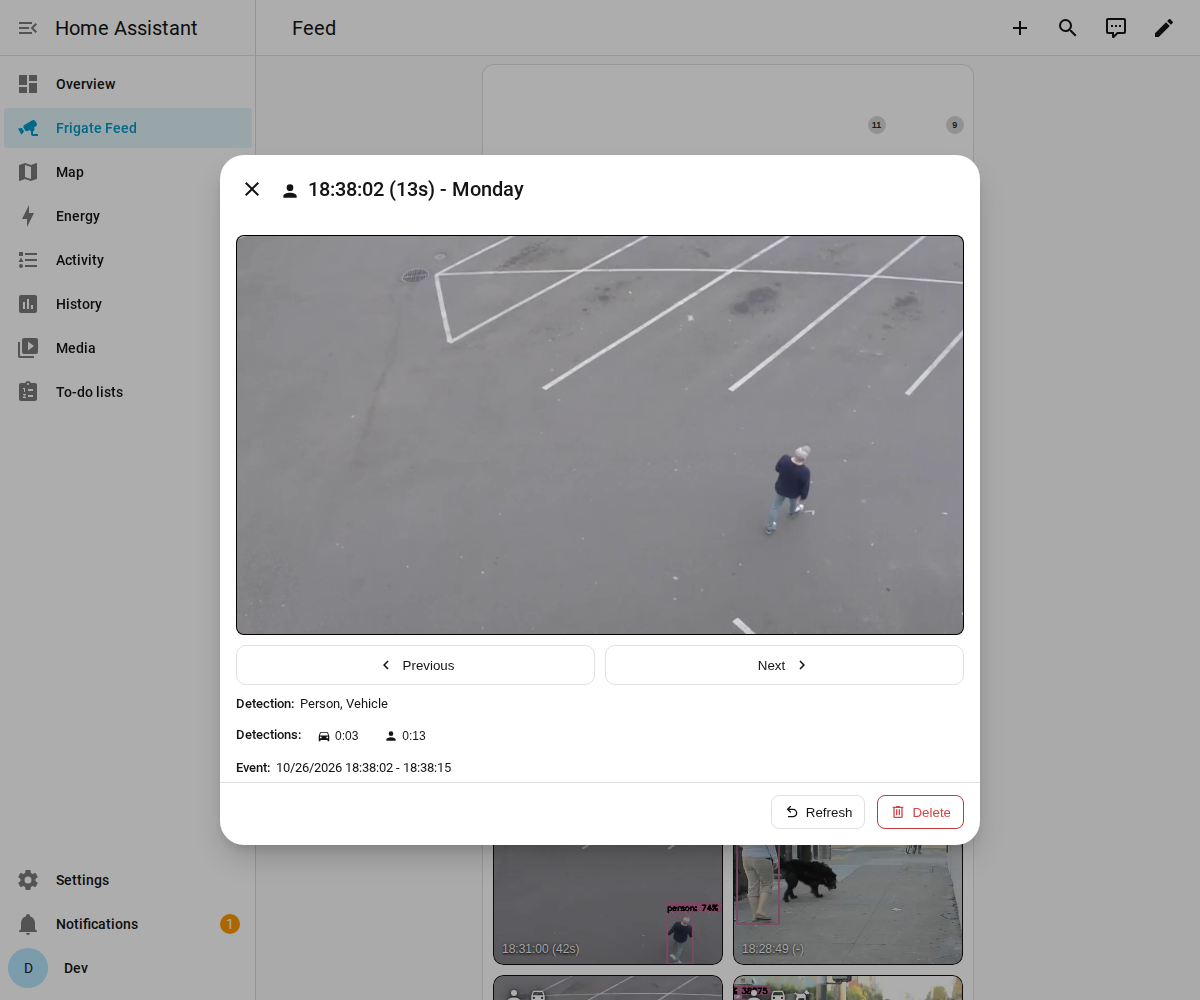
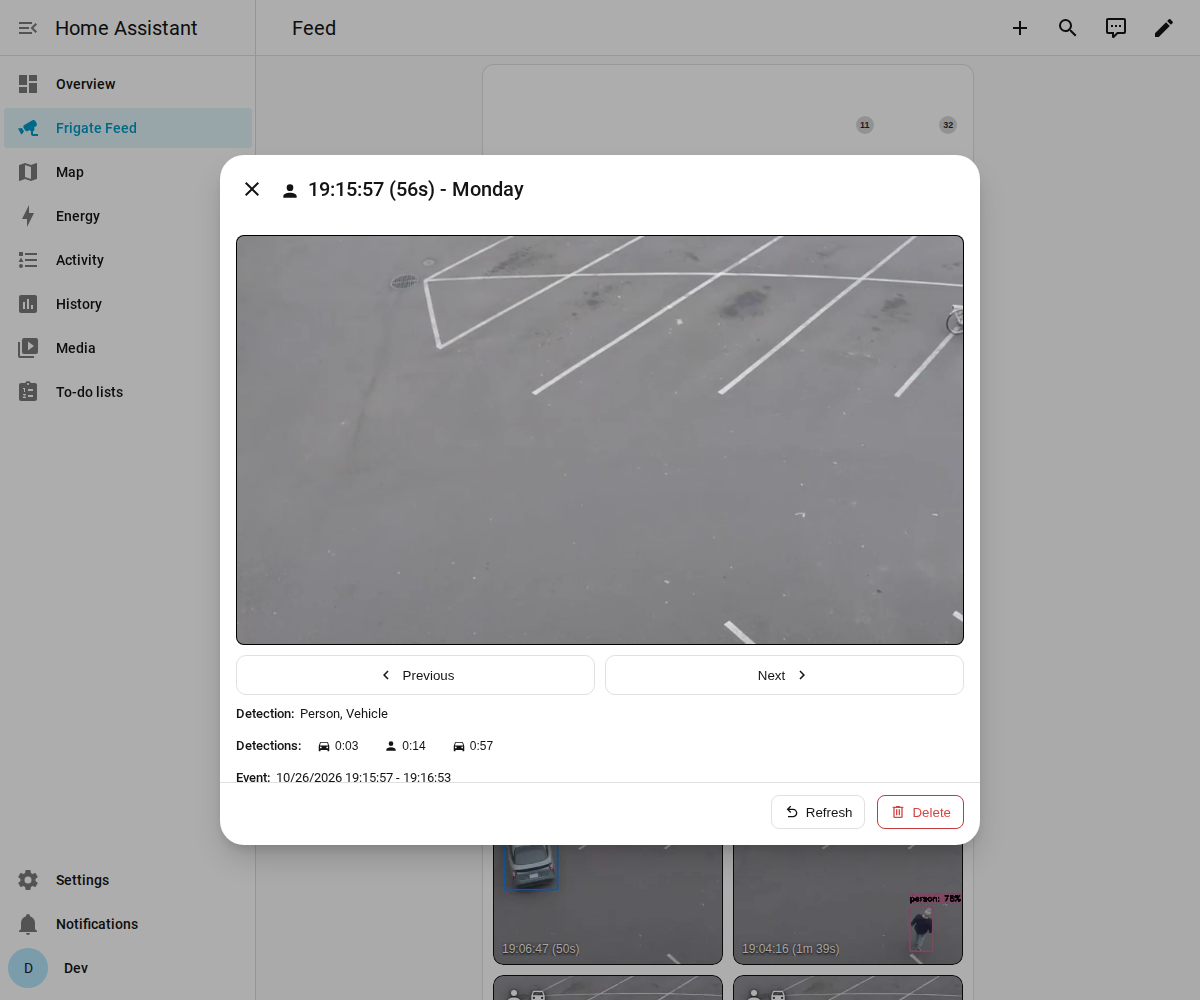
fix(card): keep the dialog media aspect ratio; bump card cache via API
- The dialog video and snapshot stay full width but keep their own
  aspect ratio (letterboxed above 70vh) instead of being cropped to a
  fixed-height frame.
- bump-card-resource-version.sh updates the Lovelace resource through
  the WebSocket API instead of editing root-owned .storage files and
  restarting Home Assistant.

diff --git a/custom_components/frigate_feed/frontend/frigate-feed-card.js b/custom_components/frigate_feed/frontend/frigate-feed-card.js
@@ -1468,22 +1468,25 @@ class FrigateFeedCard extends HTMLElement {
         .info-media-frame {
           width: 100%;
           max-width: 100%;
-          height: clamp(260px, 40vh, 420px);
           box-sizing: border-box;
           border-radius: 8px;
           border: 1px solid var(--divider-color);
           background: #000;
           overflow: hidden;
         }
+        /* Full width at the media's own aspect ratio; tall media is letterboxed. */
         .info-video, .info-snapshot, .info-media-frame .placeholder {
           width: 100%;
           max-width: 100%;
-          height: 100%;
+          height: auto;
+          max-height: 70vh;
           box-sizing: border-box;
           display: block;
         }
-        .info-video { background: #000; object-fit: cover; }
-        .info-snapshot { object-fit: cover; }
+        /* Until the metadata is loaded, reserve a 16:9 box instead of the 2:1 default. */
+        .info-video { background: #000; object-fit: contain; aspect-ratio: auto 16 / 9; }
+        .info-snapshot { object-fit: contain; }
+        .info-media-frame .placeholder { aspect-ratio: 16 / 9; }
         .info-body .placeholder {
           display: grid;
           place-items: center;

diff --git a/README.md b/README.md
@@ -138,11 +138,11 @@ Useful commands:
 ```bash
 # Reload after backend changes
 docker compose -p frigate-feed-dev restart homeassistant
-# Bump the Lovelace resource ?v= after card changes
-./scripts/bump-card-resource-version.sh
+# Bust the browser cache after card changes (bumps the Lovelace resource ?v=, no restart)
+HA_TOKEN=<long-lived token> ./scripts/bump-card-resource-version.sh
 # Inspect Frigate
 docker compose -p frigate-feed-dev exec frigate-dev curl -s localhost:5000/api/version
-docker compose -p frigate-feed-dev exec frigate-dev curl -s 'localhost:5000/api/events?limit=5'
+docker compose -p frigate-feed-dev exec frigate-dev curl -s 'localhost:5000/api/review?limit=5'
 # Tear down and remove Frigate dev data (files are root-owned, so delete from a container)
 docker compose -p frigate-feed-dev down -v
 docker run --rm -v "$PWD/dev/frigate:/d" --entrypoint /bin/rm eclipse-mosquitto:2 -rf /d/storage

diff --git a/AGENTS.md b/AGENTS.md
@@ -20,7 +20,7 @@
   `python3 -m venv ~/.cache/frigate-feed-venv && ~/.cache/frigate-feed-venv/bin/pip install -r requirements_test.txt`).
 - `docker compose -p frigate-feed-dev up -d`: start the dev stack (HA on http://localhost:8124).
 - `docker compose -p frigate-feed-dev restart homeassistant`: reload after backend code changes.
-- `./scripts/bump-card-resource-version.sh`: bump the Lovelace resource `?v=` after card changes.
+- `HA_TOKEN=<token> ./scripts/bump-card-resource-version.sh`: bump the Lovelace resource `?v=` after card changes.
 
 ## Safety
 - This machine also runs production containers (`home-assistant` on :8123, `frigate`, `mosquitto` on :1883).
